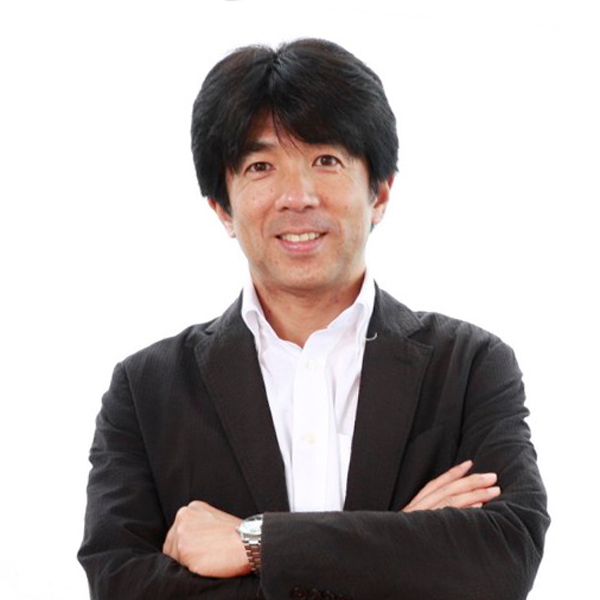
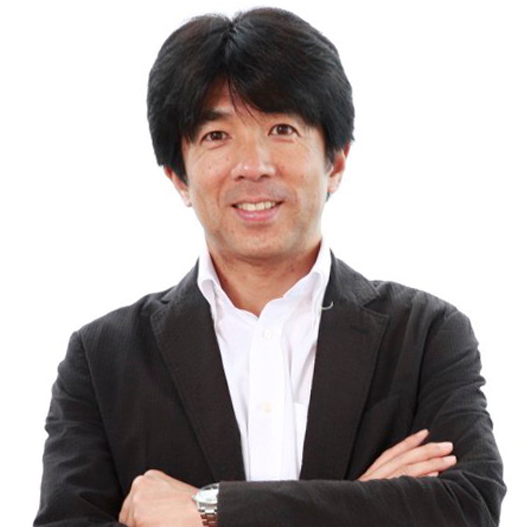
fix instructonr

Changed region(s): [[0.0607, 0.0, 0.9715, 1.0], [0.6679, 0.6983, 0.6983, 0.759], [0.4858, 0.9715, 0.5465, 1.0]]

diff --git a/index.html b/index.html
@@ -69,34 +69,39 @@
             <li>新規開拓、路線拡大したい！</li>
           </ul>
         </div><!-- /.box -->
-
         <div class="box">
           <h2>講師紹介</h2>
-          <div class="instructor_block">
-            <div class="instructor_info">
-              <p class="pic"><img src="./images/member1.png"></p>
-              <div class="name">
-                <p>小浜 勇人<span>FUTUREWOODSの代表取締役</span></p>
+          <div class="row">
+          <div class="col col-md-6">
+            <div class="instructor_block">
+                <div class="instructor_info">
+                  <p class="pic"><img src="./images/member1.png"></p>
+                  <div class="name">
+                    <p>小浜 勇人<span>FUTUREWOODS代表取締役</span></p>
+                  </div>
+                </div>
+                <div class="instructor_desc">
+                  1987年に（株）リクルートに入社。通信系の新規サービス事業の立ち上げに技術サイドから関わり（現ネクスウェイ社）、以降にて社内でのITシステムを統括する部署にて様々なネット系サービスの立ち上げやマッシュアップアワード（ＭＡ）の開催などを立ち上げ推進。以降にブライダル事業（ゼクシィ）や進学事業（受験サプリ）などの事業運営を担当執行役員としてプロダクトサイドより経験。<br>「営業における人の介在価値を科学する」、「新しいIT技術を使ったサービスを展開する」という２つを合わせて実現する為に2015年末に起業。
+                </div>
               </div>
-            </div>
-            <div class="instructor_desc">
-              1987年に（株）リクルートに入社。通信系の新規サービス事業の立ち上げに技術サイドから関わり（現ネクスウェイ社）、以降にて社内でのITシステムを統括する部署にて様々なネット系サービスの立ち上げやマッシュアップアワード（ＭＡ）の開催などを立ち上げ推進。以降にブライダル事業（ゼクシィ）や進学事業（受験サプリ）などの事業運営を担当執行役員としてプロダクトサイドより経験。<br>「営業における人の介在価値を科学する」、「新しいIT技術を使ったサービスを展開する」という２つを合わせて実現する為に2015年末に起業。
-            </div>
           </div>
-
-          <!-- <div class="instructor_block">
-            <div class="instructor_info">
-              <div class="name">
-                <p>小浜 勇人<span>FUTUREWOODSの代表取締役</span></p>
+          <div class="col col-md-6">
+            <div class="instructor_block">
+                <div class="instructor_info">
+                  <p class="pic"><img class="member2" src="./images/member2.jpg" height="180px"></p>
+                  <div class="name">
+                    <p>津幡 康二郎<span>株式会社フォーバル</span></p>
+                  </div>
+                </div>
+                <div class="instructor_desc">
+                    東京証券一部上場の㈱フォーバルに2011年入社、26歳の若さで課長昇進。<br>
+                    新規開拓部隊でプレイングマネージャーとして一人で年間160社新規顧客開拓の実績。<br>
+                    ㈱フォーバルという営業の強い会社で新規開拓で全国でNo１！<br>
+                    AIを駆使し数々の新規接点を新たな手法で生み出している！<br>
+                </div>
               </div>
-            </div>
-            <div class="instructor_desc">
-              1987年に（株）リクルートに入社。通信系の新規サービス事業の立ち上げに技術サイドから関わり（現ネクスウェイ社）、以降にて社内でのITシステムを統括する部署にて様々なネット系サービスの立ち上げやマッシュアップアワード（ＭＡ）の開催などを立ち上げ推進。以降にブライダル事業（ゼクシィ）や進学事業（受験サプリ）などの事業運営を担当執行役員としてプロダクトサイドより経験。<br>「営業における人の介在価値を科学する」、「新しいIT技術を使ったサービスを展開する」という２つを合わせて実現する為に2015年末に起業。
-            </div>
-          </div> -->
-          
-        </div><!-- /.box -->
-
+          </div>
+        </div>
         <div class="box">
           <h2>お申込みフォーム</h2>
 

diff --git a/css/common.css b/css/common.css
@@ -176,7 +176,14 @@ h2 {
   padding-right: 20px;
 }
 .box .instructor_info .pic img {
+  height: 180px;
+  object-fit: cover;
+  object-position: 10% 10%; 
   width: 100%;
+}
+.box .instructor_info .pic img.member2 {
+  object-fit: cover;
+  object-position: top;
 }
 .box .instructor_info .name {
   font-weight: bold;
